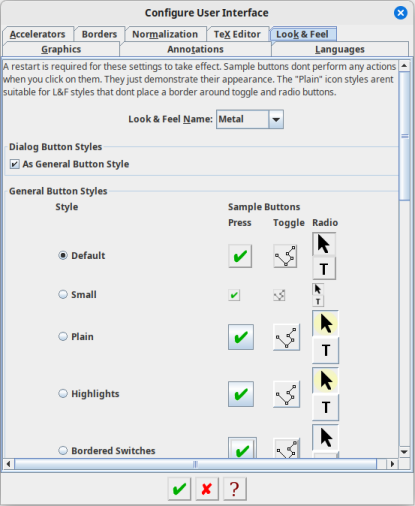
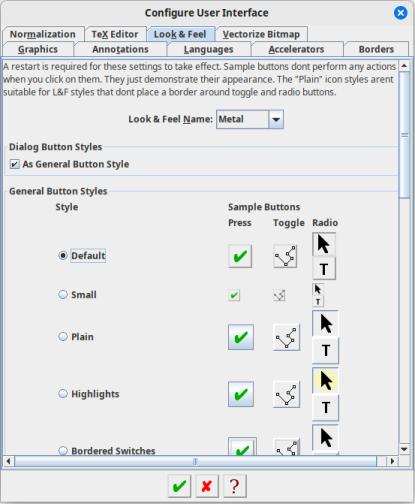
added Look and Feel content

diff --git a/src/doc/en/flowframtk-main.tex b/src/doc/en/flowframtk-main.tex
@@ -2044,7 +2044,137 @@ divider. By default, the preamble pane is to the right of the
 
 \subsubsection{Look and Feel Settings}\label{sec:lookandfeel}
 
-TODO
+\widgetdef{lookandfeel.title}
+
+\FloatFig
+  {fig:lookandfeel}
+  {\includeimg{configureUI-lookandfeel}}
+  {Configuration UI Dialog Box (Look and Feel Settings)}
+
+Java displays \gls{gui} elements, such as buttons and menus,
+according to the selected \qt{\gls{look-and-feel}}. There are a number of
+different \glspl{look-and-feel} that may, or may not, be available on your
+platform. Some of the \glspl{look-and-feel} don't support certain features
+such as the click-to-collapse setting on the divider bar in split
+panes, including the divider between the \gls{canvas} and the preamble
+pane. The \widget{lookandfeel.title} tab has a
+\gls{dropdown} with the list of available \gls{look-and-feel}. For
+example, \figureref{fig:lookandfeel} has the \qt{Metal} look and
+feel selected. You can change this to a different \gls{look-and-feel}, but
+you must restart \appname\ for the change to be implemented.
+
+Some example \glspl{look-and-feel} are shown in \figureref{fig:lookandfeelex}.
+Note that the main window's title bar and outer border isn't
+governed by Java's \gls{look-and-feel}, but by the operating
+system's window manager. For example, I've used different window
+themes whilst taking snapshots of \appname\ for this manual,
+which is why the \manmsg{colour} and format of the title bar for the main
+window and for the dialog boxes vary.
+
+\FloatSubFigs{fig:lookandfeelex}
+{
+  {fig:lookandfeelex-metal}
+    {\includeimg[width=0.45\linewidth]{lookandfeel-metal}}{Metal},
+  {fig:lookandfeelex-nimbus}
+    {\includeimg[width=0.45\linewidth]{lookandfeel-nimbus}}{Nimbus},
+  {fig:lookandfeelex-cdemotif}
+    {\includeimg[width=0.45\linewidth]{lookandfeel-cdemotif}}{CDE\slash Motif},
+  {fig:lookandfeelex-gtk}
+    {\includeimg[width=0.45\linewidth]{lookandfeel-gtk}}{GTK+}
+}
+{Look and Feel Examples}
+
+In addition to changing the look and feel, you can also change how
+the buttons that have icons are displayed. By default, the buttons
+with icons have a bevel bordered style, with a different icon image for
+the up, down, rollover and disabled states, but if you don't like
+them, you can select a different type from the
+\widget{lookandfeel.button.style} area. Each type has some sample
+buttons displayed on the right. They don't perform any actions, but
+you can press them to try them out. The button types come in the
+following \manmsgpl{flavour}:
+
+\begin{deflist}
+\itemtitle{Bordered}
+
+\begin{itemdesc}
+This is the default button type described above.
+These buttons have distinctive up and down states regardless of the
+\gls{look-and-feel}.
+\end{itemdesc}
+
+\itemtitle{Small Bordered}
+
+\begin{itemdesc}
+Similar to bordered but a smaller version.
+\end{itemdesc}
+
+\itemtitle{Plain}
+
+\begin{itemdesc}
+This has a single icon image for the button. The up and
+down look is dealt with by the \gls{look-and-feel}. This means that if the
+selected look and feel doesn't draw an up or down effect, you won't
+be able to see the button state.
+\end{itemdesc}
+
+\itemtitle{Small Plain}
+
+\begin{itemdesc}
+Similar to plain but a smaller version.
+\end{itemdesc}
+
+\itemtitle{Highlights}
+
+\begin{itemdesc}
+This is like plain but there is a
+second icon for the down state of radio and check buttons that is
+like the up state but has a highlighted background. This means that
+you can now see a difference between the up and down states for the
+radio and check buttons when used with a \gls{look-and-feel} style that
+doesn't draw an up or down effect.
+\end{itemdesc}
+
+\itemtitle{Small Highlights}
+
+\begin{itemdesc}
+Similar to highlights but a smaller version.
+\end{itemdesc}
+
+\itemtitle{Bordered Switches}
+
+\begin{itemdesc}
+Uses the plain type for press buttons and
+the bordered type icons for radio and check buttons. Unlike the
+default bordered style, in this case the bordered icons also include
+the \gls{look-and-feel}['s] up and down effect (where supported).
+\end{itemdesc}
+
+\itemtitle{Small Bordered Switches}
+
+\begin{itemdesc}
+Like bordered switches but a smaller version.
+\end{itemdesc}
+
+\end{deflist}
+
+Some of these styles also display a textual label, which may be
+above, below, to the left or to the right of the icon.
+Alternatively, you can just select the text only option. If you
+prefer to have a different style for the dialog windows, you can
+uncheck the \widget{lookandfeel.dialog.as_general} button,
+which will display a set of button styles that you can apply to the
+dialog windows. For example, \figureref{fig:icontext} shows the
+dialog window from \figureref{fig:graphics} with the
+small icons and trailing text dialog button option.
+
+As with the look and feel setting, you must restart \appname\
+before the changes can be implemented.
+
+\FloatFig
+  {fig:icontext}
+  {\includeimg[width=\linewidth]{configureUI-graphics-icontext}}
+  {Dialog Buttons with Small Icons and Trailing Text}
 
 
 \section{Configuration Directory}\label{sec:configdir}

diff --git a/src/java/jdrresources/JDRResources.java b/src/java/jdrresources/JDRResources.java
@@ -3072,7 +3072,7 @@ public class JDRResources
 
 
    public static final String APP_VERSION = "0.8.7";
-   public static final String APP_DATE = "2025-07-25";
+   public static final String APP_DATE = "2025-07-27";
    public static final String START_COPYRIGHT_YEAR = "2006";
    public static final String COPYRIGHT_YEAR
     = APP_DATE.substring(0,4);

diff --git a/src/java/jdrresources/JDRButtonStyle.java b/src/java/jdrresources/JDRButtonStyle.java
@@ -305,6 +305,17 @@ public class JDRButtonStyle
          }
       }
 
+      if (!hasDownIcon)
+      {
+         icSet.setPressedIcon(null);
+         icSet.setSelectedIcon(null);
+      }
+
+      if (!hasRolloverIcon)
+      {
+         icSet.setRolloverIcon(null);
+      }
+
       return icSet;
    }
 
